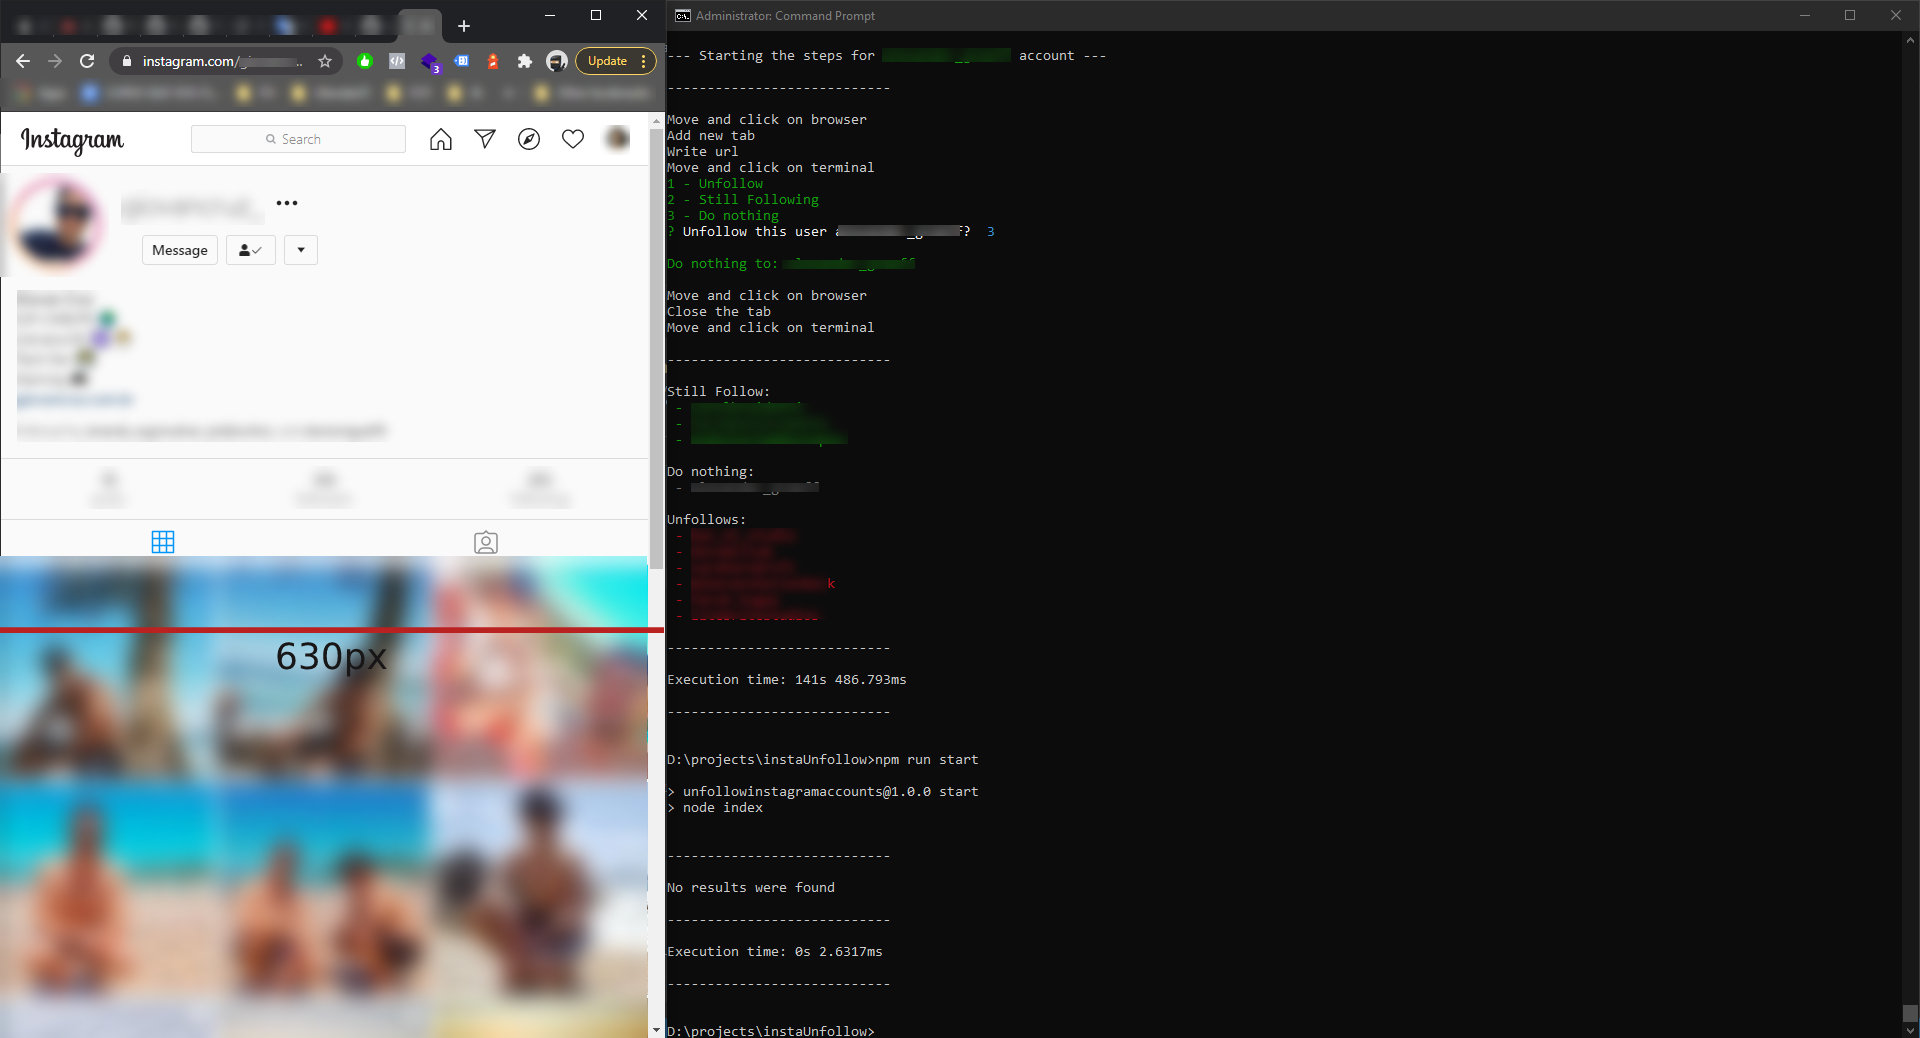
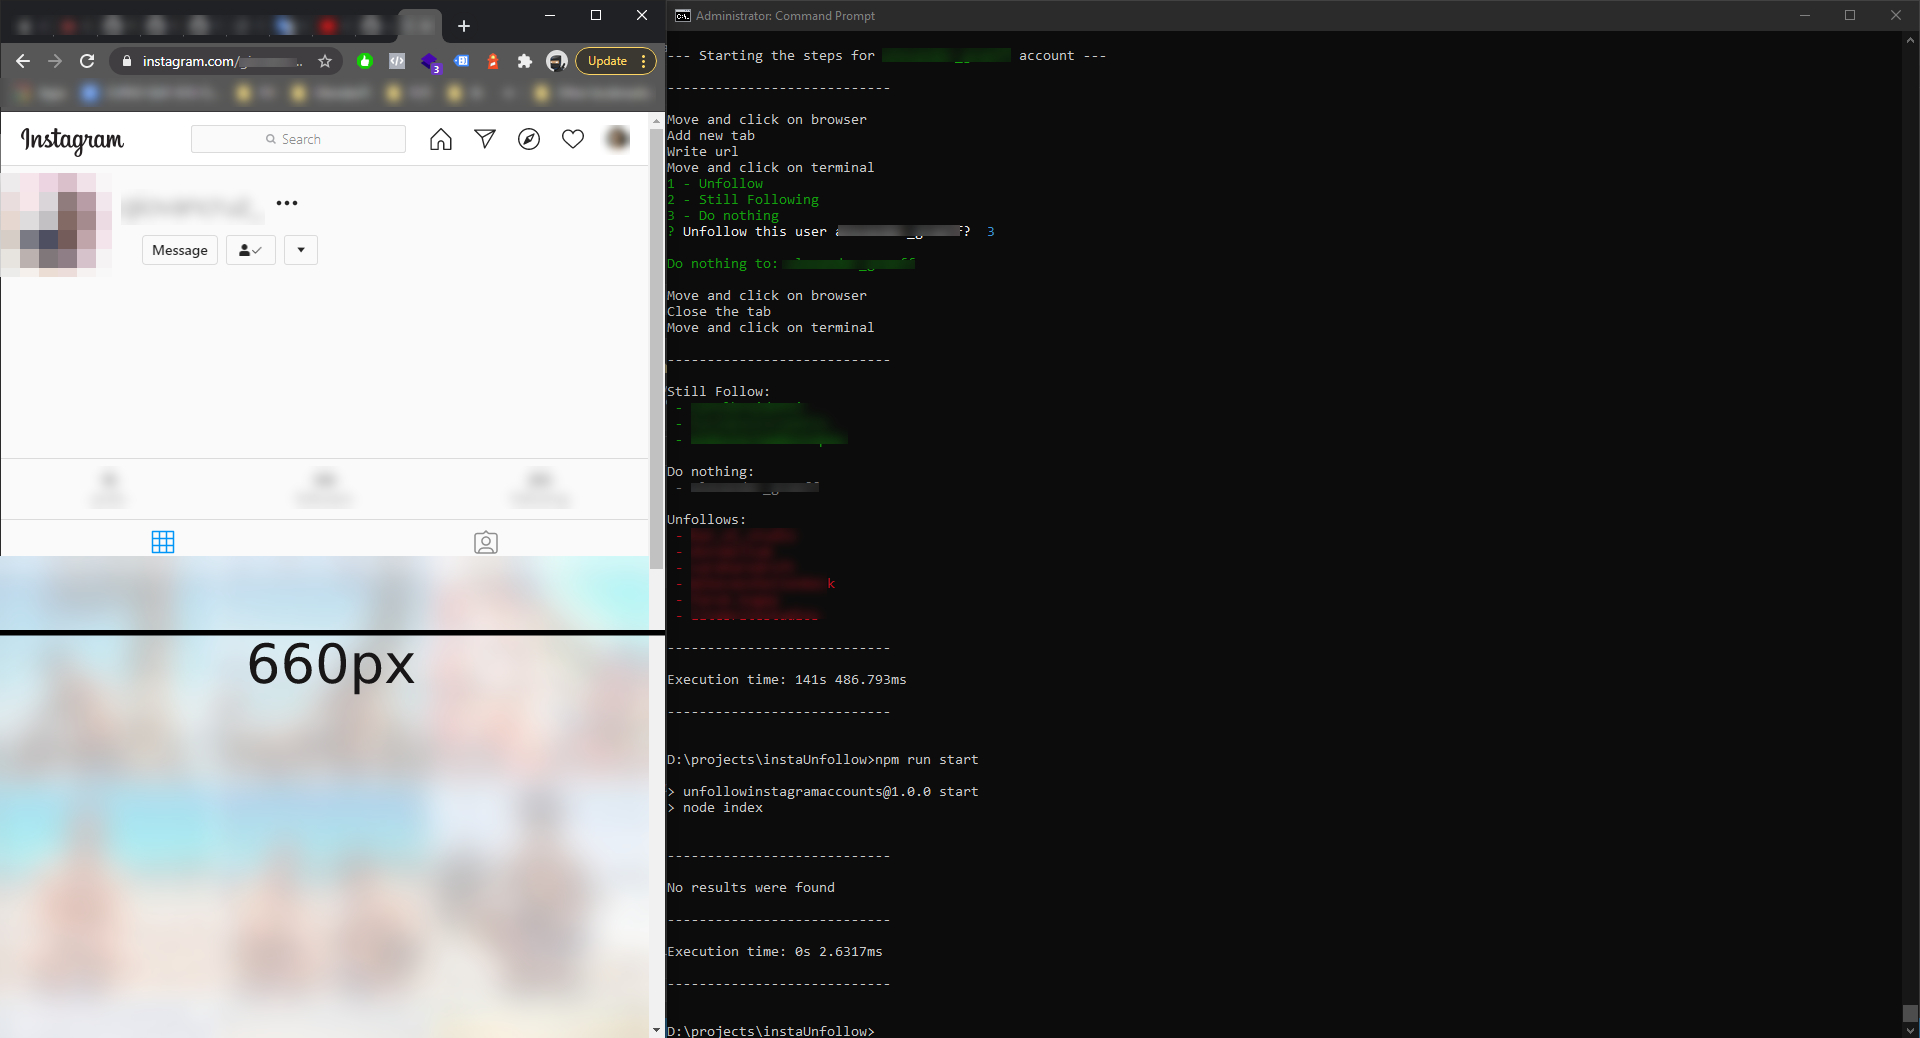
write the read me

Changed region(s): [[0.0, 0.5241, 0.3438, 1.0], [0.0, 0.1541, 0.2188, 0.4316]]

diff --git a/README.md b/README.md
@@ -1,86 +1,234 @@
-# Unfollow Instagram Accounts
-Node application to unfollow few accounts on Instagram
+<p style="text-align:center;">
+    <img src="bin/imgs/unfollowInstagramAccounts.png">
+</p>
+<p style="text-align:center;">
+    <img src="https://img.shields.io/github/languages/top/felipelssilva/unfollowInstagramAccounts">
+    <img src="https://img.shields.io/github/license/felipelssilva/unfollowInstagramAccounts">
+</p>
+<p style="text-align:center;">
+    Node application to unfollow accounts on Instagram
+</p>
 
 ---
 
-# Important: 
+## Contents
 
-You need to be previously logged into your instagram account.
-
-This code will not access any of your information, I am not saving any information from your account, I am not sending your data anywhere.
-In case your account data is lost, I guarantee that it will not be by this code.
-
-Before running the entire process and making it work, review the code and understand it to answer your possible questions.
-
----
-
-### Story
-
-
+- [Important](#important)
+- [Story](#story)
+- [Configurations](#configurations)
+- [How I got my data](#how-i-got-my-data)
+- [How to use](#how-to-use)
+- [What does the system do?](#what-does-the-system-do)
+- [License](#license)
 
 ---
 
-### How to use
+## Important
 
-`You will need Node version v15.0.0, NPM version 7.0.2.`
+> <span style="color:red">You need to be previously logged into your Instagram account.</span>
 
-I recommend using the windows OS. I had many problems in using the extensions needed to be run on linux.
+<span style="color:red">This code will not access any of your information, You will not be saving any information from your account, and not sending your data anywhere.</span>
+<span style="color:red; font-weight:900;">It's a semi-auto process for unfollow Instagram accounts.</span>
 
-`Okay, detail that I used an extension on windows that simulates the CLI of an Ubuntu, probably this hindered me a little in the use of the components.`
+<span style="color:red;">Before running the entire process and making it work, review the code and understand it to answer you're possible questions.</span>
 
-But I still recommend using Window, other OSes I didn't have the opportunity to test.
-
-Ideal resolution for executing the 1920x1080 code
-
-http://robotjs.io/docs/building
-
-
-Split the screen between the browser and the console, browser on the left and the console to the right.
+<span style="color:red;">In case you think in skip the Story below, it is fundamental to understand how I created and used the code.</span>
 
 ---
 
-### How I get my data (followers)
+## Story
 
-- Open a CMD as an administrator 
-- Open your profile, aka: https://www.instagram.com/<YOUR_USER_NAME>/.
-- Open the console (F12)
+Throughout my time using the social network, I always followed several accounts for no reason. But now, it's time to do some cleaning, and the laziness pops up (who never?). The scenario could be described as: I had a lot of things I want to still follow (like my friends) and a thousand others that I do not remember that I followed and don't want anymore (sorry in advance to a lot of cat pages).
 
-Run all following commands:
+At first, I thought of doing this process all by hand (and it did for a few minutes), I realized that the amount of accounts I was following, would take me a long time to finish.
 
-`This code open the modal of yours followers.`
+I realize that there were some patterns within the process that I could automate in some way.
 
-    document.querySelectorAll('a.-nal3')[1].click()
+The first step was to extract the data. I used a little of my knowledge with Javascript to do the loading of all the things I followed. With all the accounts loaded, I made a loop to print them all on the console and so build own my database, see the section [How i got my data](#how-i-got-my-data).
 
+During the extraction, I organized all the results with some criteria, like removing only the verified accounts (because at this moment there was no need for me to retrieve/unfollow them). Then I placed the results in an HTML file and added simple anchor links to open a new tab (this part was more manual, but with the help of Sublime, selecting all the lines and editing them all at the same time - at some point, I could automate it but not today!).
 
-Set the following variable in the browser console:
+As I said, I did the next few steps a few times:
+- Clicking on the link
+- Opening
+- Waiting to load
+- Clicking on the unfollow button
+- Confirming
+- Closing the tab
+- And repeating (and dying of boredom eventually).
 
-    var scrollingInterval = setInterval(function(){ scrolando() }, 100);
+I talked about it with my wife and joked that it would be interesting for me to make another code to make this process faster, and as a good crazy partner, she gave me the strength (and a lot of coffee) to do it. Now here I am, writing how it came to be created.
+To bring to the code the unicorn in my head, I remembered a video that I had seen many years ago, which is about an [AI to play the Google Chrome Dinosaur](https://www.youtube.com/watch?v=P7XHzqZjXQs).
 
+I thought about it because I wanted it to be in [Node.js](https://nodejs.org). I accessed the AI video code on [Git](https://github.com/ivanseidel/IAMDinosaur) because I already knew it was in Node (for the sake of God's of Programmers). 
 
+There is a package called [RobotJS](http://robotjs.io/), with good documentation and easy to understand. The package fitted my idea perfectly, and I started to automate this boring process of unfollowing accounts. As my idea is to be simple, it has a limitation that requires to be configured according to the resolution of my screen, OS, and the like, see the configurations below.
 
-document.querySelectorAll(`.isgrP`)[0].scroll(0, document.querySelectorAll(`.isgrP`)[0].scrollHeight)
+---
 
+## Configurations
 
+1. You will need [Node.js](https://nodejs.org/en/download) installed on your computer, version `v15.x` and the NPM `7.x`
+2. I recommend using the Windows OS. <small>(I had many problems in using the extensions needed to run on Linux. Okay, the detail that I used an extension on Windows that simulates the CLI of an Ubuntu, probably this hindered me a little in the use of the component)</small>
+3. The ideal resolution for executing the code `1920x1080`, as you will split your screen, just like the example below:
+    ![Example of how your screen needs to be](bin/imgs/example.jpg "Example of how your screen needs to be")
+    > The browser needs to be a maximum of 660px, and the CMD fills up the rest of the screen.
+4. Your taskbar need to stay like that: <small>(because RobotJS, will move your cursor to this location and click there, where I hope your browser is already open)</small>
+    ![Example of how your taskbar need to be](bin/imgs/windows_bar.jpg "Example of how your taskbar need to be") 
+5. Your keyboard need to setted in English
+6. **Remember to read Docs of RobotJS to prevent executing with errors.**
+    > [RobotJS > Docs > Building](http://robotjs.io/docs/building)
+
+---
+
+## How I got my data
+
+- Open your profile, aka: https://www.instagram.com/<YOUR_USER_NAME>/
+- Open the console of your browser (F12)
+- Run all following commands:
+
+#### Open the modal
+
+Opens the modal of the people you follow:
+```javascript
+document.querySelectorAll('a.-nal3')[1].click()
+```
+
+#### Definning the scrollingToEnd function
+
+Defining a function to scroll the modal screen to the end:
+```javascript
+function scrollingToEnd() {
+    var elementWithScrollBar = document.querySelectorAll(`.isgrP`)[0];
+    elementWithScrollBar.scroll(0, elementWithScrollBar.scrollHeight);
+}
+```
+
+#### Defining the scrollingInterval varible
+Defining a function in the variable, to be executed every 100 ms, to load all data:
+```javascript
+var scrollingInterval = setInterval(function(){
+    scrollingToEnd() 
+}, 100);
+```
+
+#### Clear interval function
+
+**In this part you will need to stay alert, until the moment when Instagram is not loading any more information.**
+
+Once finished, clear the infinite looping of the interval with the following code:
+```javascript
 clearInterval(scrollingInterval)
+```
+
+#### Finding verified accounts
+Finding all verified accounts and removing them from the DOM:
+```javascript
+document.querySelectorAll('.isgrP li span[title="Verified"]').forEach(function(accVerified){
+    accVerified.closest('li').remove();
+})
+```
+#### Loop for save the database
+Loop for save your data with a Instagram's URLs on a variable:
+```javascript
+var data = [];
+document.querySelectorAll('.isgrP li').forEach(function(e){ 
+    data.push('https://www.instagram.com/' + e.querySelectorAll('span a')[0].innerText);
+})
+```
+
+#### Console save the data
+
+**<span style="color:red">This below code isn't made by me, and I don't know exactly who did it. </span>**
+**<span style="color:red"> - IF YOU DID THIS PLEASE LET ME KNOW!!!! I have to give you the credits!</span>**
+
+Past the code in your browser:
+```javascript
+(function(console){
+    console.save = function(data, filename){
+        if(!data) {
+            console.error('Console.save: No data')
+            return;
+        }
+
+        if(!filename) filename = 'console.json'
+
+        if(typeof data === "object"){
+            data = JSON.stringify(data, undefined, 4)
+        }
+
+        var blob = new Blob([data], {type: 'text/json'}),
+            e    = document.createEvent('MouseEvents'),
+            a    = document.createElement('a')
+
+        a.download = filename
+        a.href = window.URL.createObjectURL(blob)
+        a.dataset.downloadurl =  ['text/json', a.download, a.href].join(':')
+        e.initMouseEvent('click', true, false, window, 0, 0, 0, 0, 0, false, false, false, false, 0, null)
+        a.dispatchEvent(e)
+    }
+})(console)
+```
+
+#### Download your data
+
+To use `console.save` it will look like this:
+```javascript
+console.save(data);
+```
+
+An archive with the name of console.json will be downloaded automatically, in your browser (if your browser doesn't ask to allow you to accept the download).
+
+####  Putting the file on the project
+
+With the file already downloaded, you should now place it in the following place in the code:
+
+```
+<ROOT_OF_THE_PROJECT>/bin/
+```
+
+If you have a problem with the file, see the following line to fix it, some supposed problem, [here](https://github.com/felipelssilva/unfollowInstagramAccounts/blob/main/index.js#L8).
+
+---
+
+## How to use
+
+If you configured your environment correctly it will be simple to use.
+- In your CMD, access the path of the project 
+- Install all packages `npm i` <small>(If the installation dont work, go back to the [configurations](#configurations), follow the steps, stay tuned as [RobotJS](http://robotjs.io/docs/building) requires some necessary dependencies)</small>
+- Execute that follow command:
+    ```
+    npm run index
+    ```
+- And enjoy, *with patience*, you will spend 10 seconds per account, to unfollow all the unnecessary accounts of your Instagram.
+
+It will be **necessary to have your supervision** to choose the options (unfollow, do nothing, and still following), as it would be impossible for a system to know exactly which accounts I want to stop following because I still want to follow my friends.
 
 
-procurado por contas com o verificado
-document.querySelectorAll(`.isgrP`)[0].querySelectorAll('li span[title="Verified"]')
 
-teste removendo contas verificadas
-document.querySelectorAll(`.isgrP`)[0].querySelectorAll('li span[title="Verified"]')[0].parentElement.parentElement.parentElement.parentElement.parentElement.parentElement.remove()
+*Note: To stop the process in CMD hit on `ctrl+c` (few times, to confirm the stop the code lol)*
 
-removendo contas verificadas
-document.querySelectorAll(`.isgrP`)[0].querySelectorAll('li span[title="Verified"]').forEach(function(e,i){  e.parentElement.parentElement.parentElement.parentElement.parentElement.parentElement.remove() })
+---
 
+## What does the system do?
 
-class .enpQJ
--> user id
--> name
+---
 
-printa o username e nome da conta
-document.querySelectorAll(`.isgrP`)[0].querySelectorAll('li').forEach(function(e,i){ console.log(e.querySelectorAll('.enpQJ')[0].innerText) })
+## Plans
 
-https://www.instagram.com/
+- [x] Removing the text file format for get all data, and use a array in a JSON file
+- [ ] Different way for:
+    - [ ] opening the browser
+    - [ ] find the my account button
 
-document.querySelectorAll(`.isgrP`)[0].querySelectorAll('li').forEach(function(e,i){ console.log('https://www.instagram.com/'+e.querySelectorAll('.enpQJ a')[0].innerText) })
+---
+## License
+
+**[MIT](https://github.com/felipelssilva/unfollowInstagramAccounts/blob/main/LICENSE)**
+
+A short and simple permissive license with conditions only requiring preservation of copyright and license notices. Licensed works, modifications and larger works may be distributed under different terms and without source code.
+
+---
+
+Based on a necessity.
+Maintained by [Felipe Luis](https://www.felipeluis.com).
